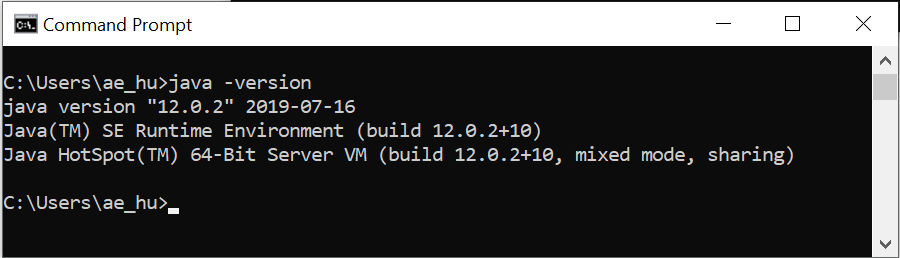
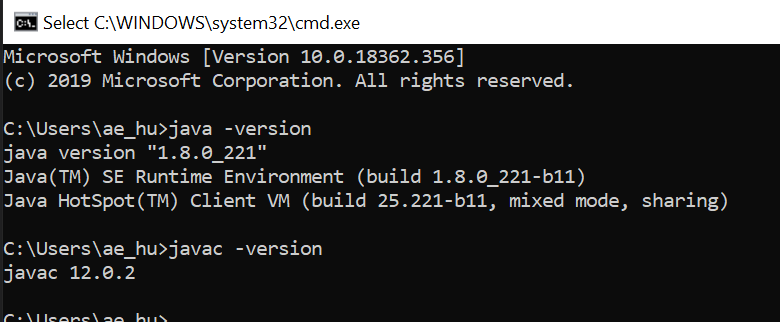
Fix Windows Java tutorial

Changed region(s): [[0.0, 0.0, 1.0, 1.0]]

diff --git a/03 Actividad Personal/README.md b/03 Actividad Personal/README.md
@@ -41,6 +41,9 @@ NOTA: En este momento Java ya está instalado y es utilizable, pero no se encuen
 ### Editar variables de entorno
 En el menú Start, busca `This PC` (`Este Equipo` en español.) Haz click derecho sobre el ícono y selecciona la opción `Properties`. 
 
+![Step5](img/img7.png)
+
+
 Selecciona la opción `Advanced System Settings`.
 ![Step1](img/img8.png)
 
@@ -63,6 +66,8 @@ Vuelve a abrir `Command Prompt` haciendo click en <kbd>Win</kbd> + <kbd>R</kbd>.
 
 En consola, escribe la instrucción
 `java -version`
+y
+`javac -version`
 
 La versión que elegiste al instalar la aplicación deberá aparecer aquí.
 ![Step5](img/img13.png)
